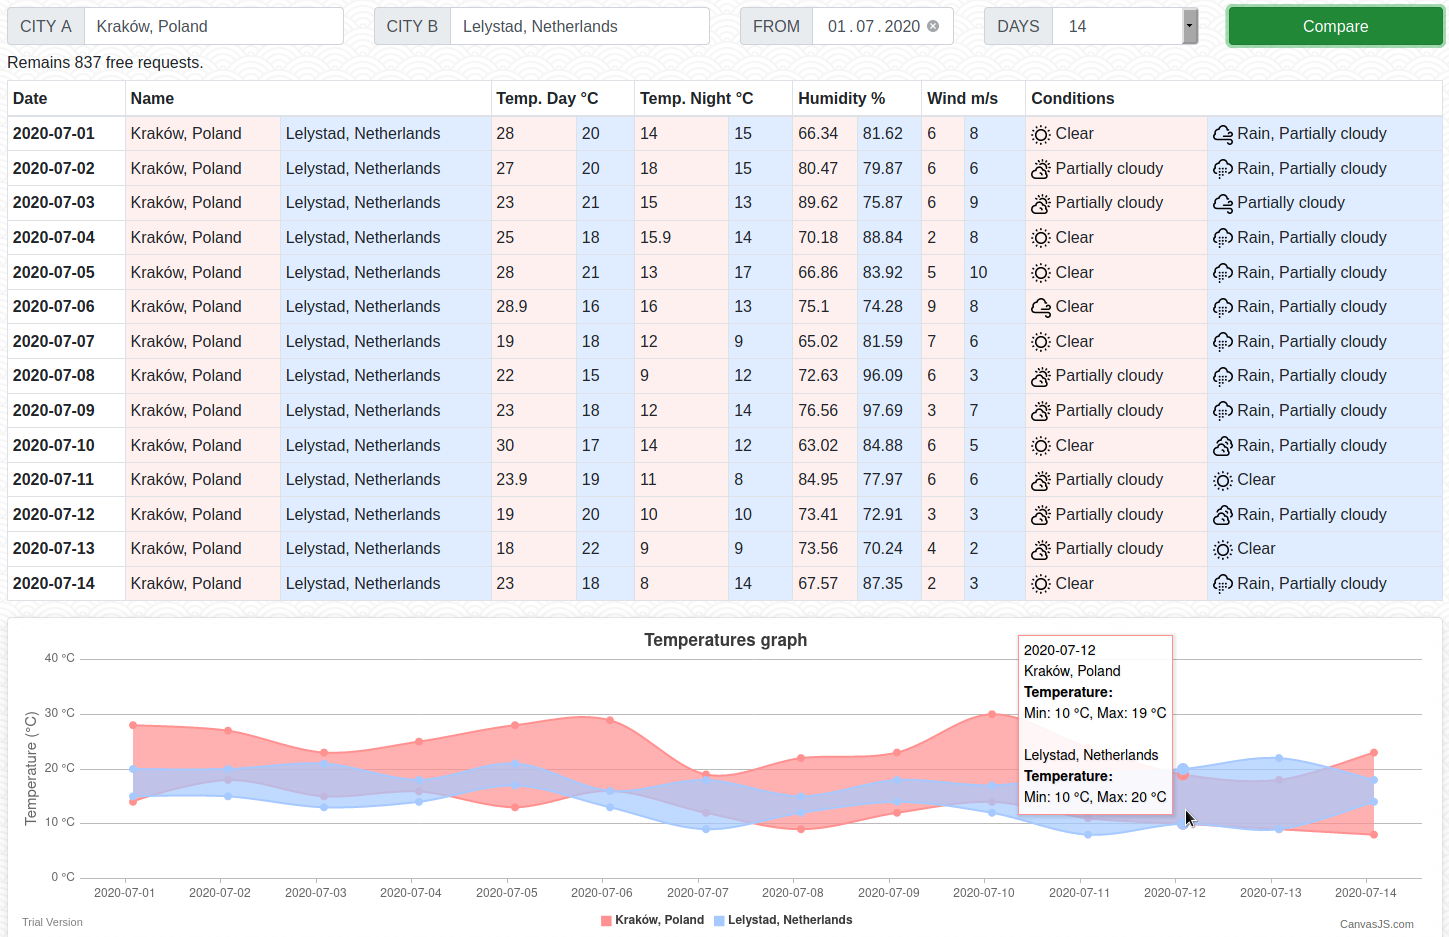
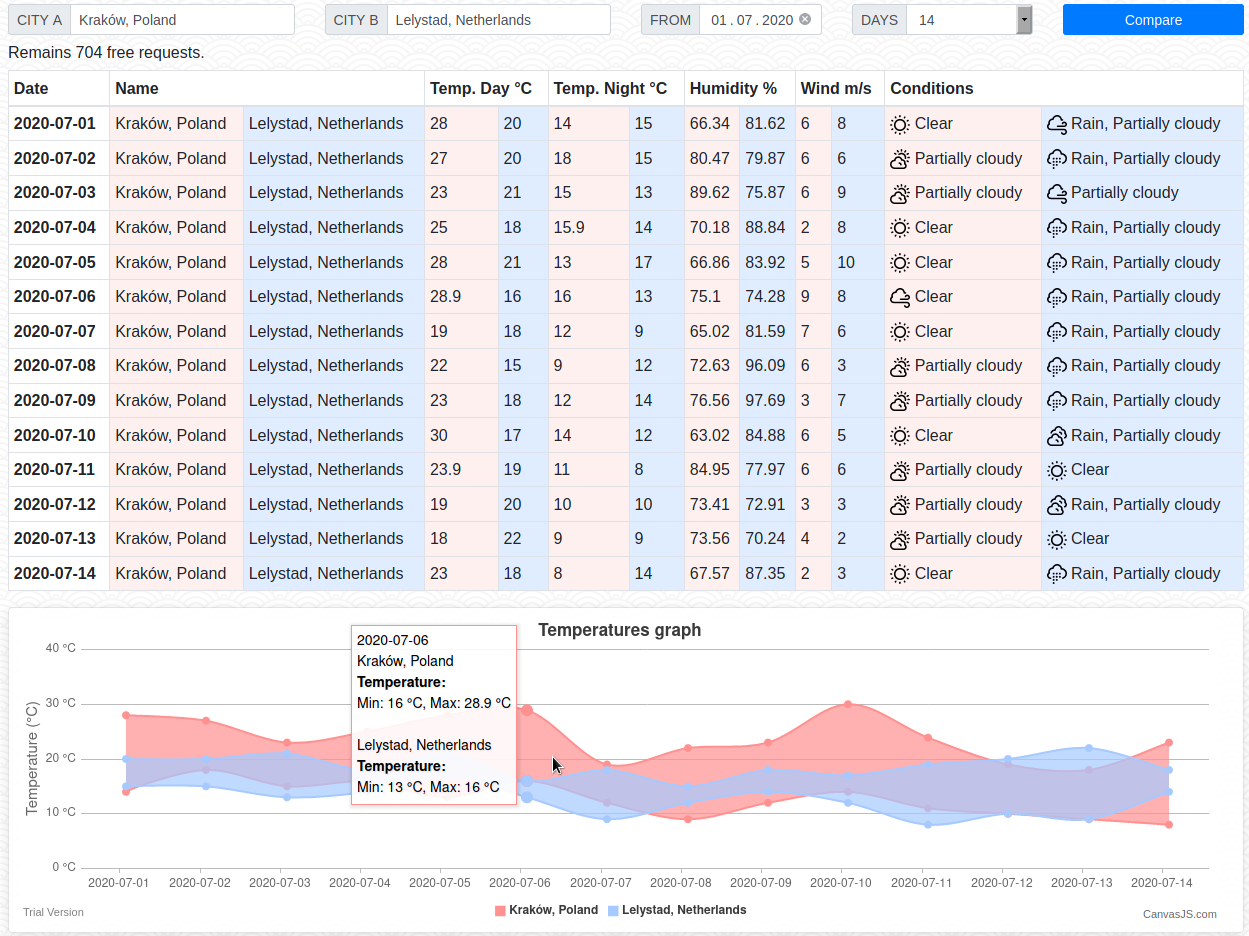
smaller inputs and button

diff --git a/src/App.svelte b/src/App.svelte
@@ -224,7 +224,7 @@
 <div>
 	<Row>
 		<Col md="3" class="mb-2">
-		<InputGroup>
+		<InputGroup size="sm">
 			<InputGroupAddon addonType="prepend">
 				<InputGroupText>CITY A</InputGroupText>
 			</InputGroupAddon>
@@ -232,7 +232,7 @@
 		</InputGroup>
 		</Col>
 		<Col md="3" class="mb-2">
-		<InputGroup>
+		<InputGroup size="sm">
 			<InputGroupAddon addonType="prepend">
 				<InputGroupText>CITY B</InputGroupText>
 			</InputGroupAddon>
@@ -240,7 +240,7 @@
 		</InputGroup>
 		</Col>
 		<Col md="2" class="mb-2">
-		<InputGroup>
+		<InputGroup size="sm">
 			<InputGroupAddon addonType="prepend">
 				<InputGroupText>FROM</InputGroupText>
 			</InputGroupAddon>
@@ -248,7 +248,7 @@
 		</InputGroup>
 		</Col>
 		<Col md="2" class="mb-2">
-		<InputGroup>
+		<InputGroup size="sm">
 			<InputGroupAddon addonType="prepend">
 				<InputGroupText>DAYS</InputGroupText>
 			</InputGroupAddon>
@@ -260,7 +260,7 @@
 		</InputGroup>
 		</Col>
 		<Col md="2" class="mb-2">
-		<Button block color="success" on:click={Compare}>Compare</Button>
+		<Button size="sm" block color="primary" on:click={Compare}>Compare</Button>
 		</Col>
 	</Row>
 	<h6>{messageAlert}</h6>
